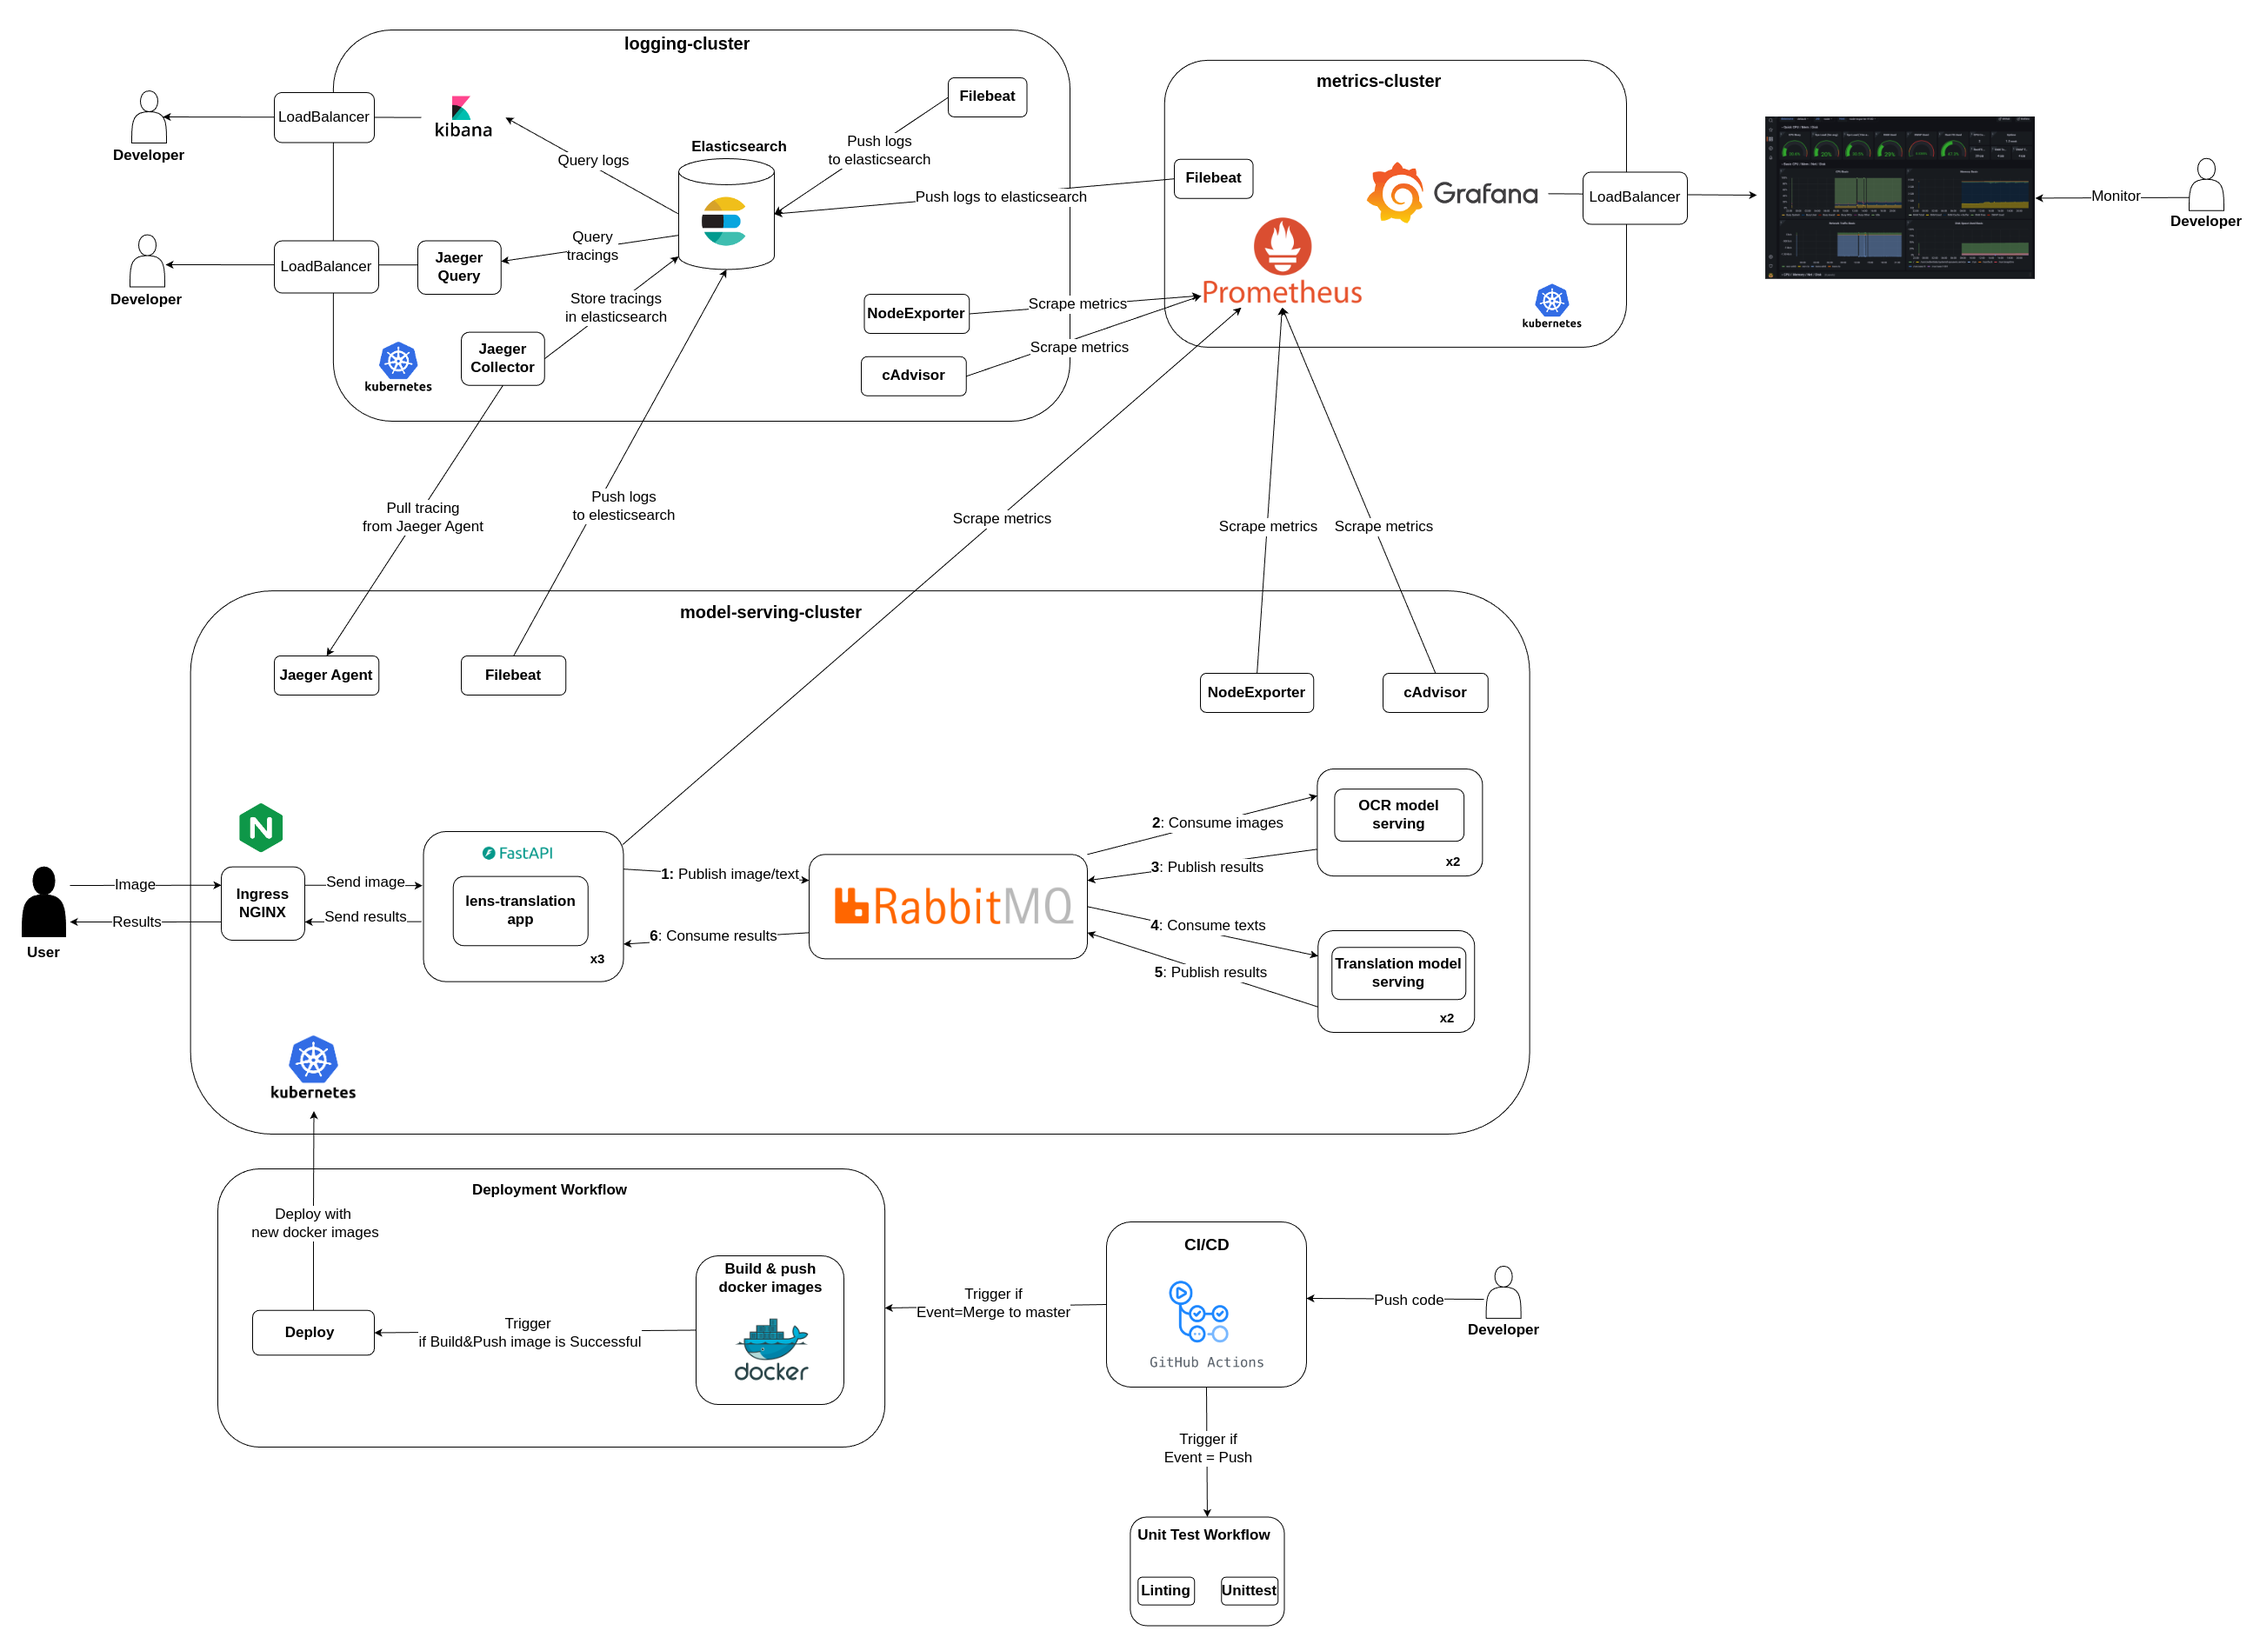
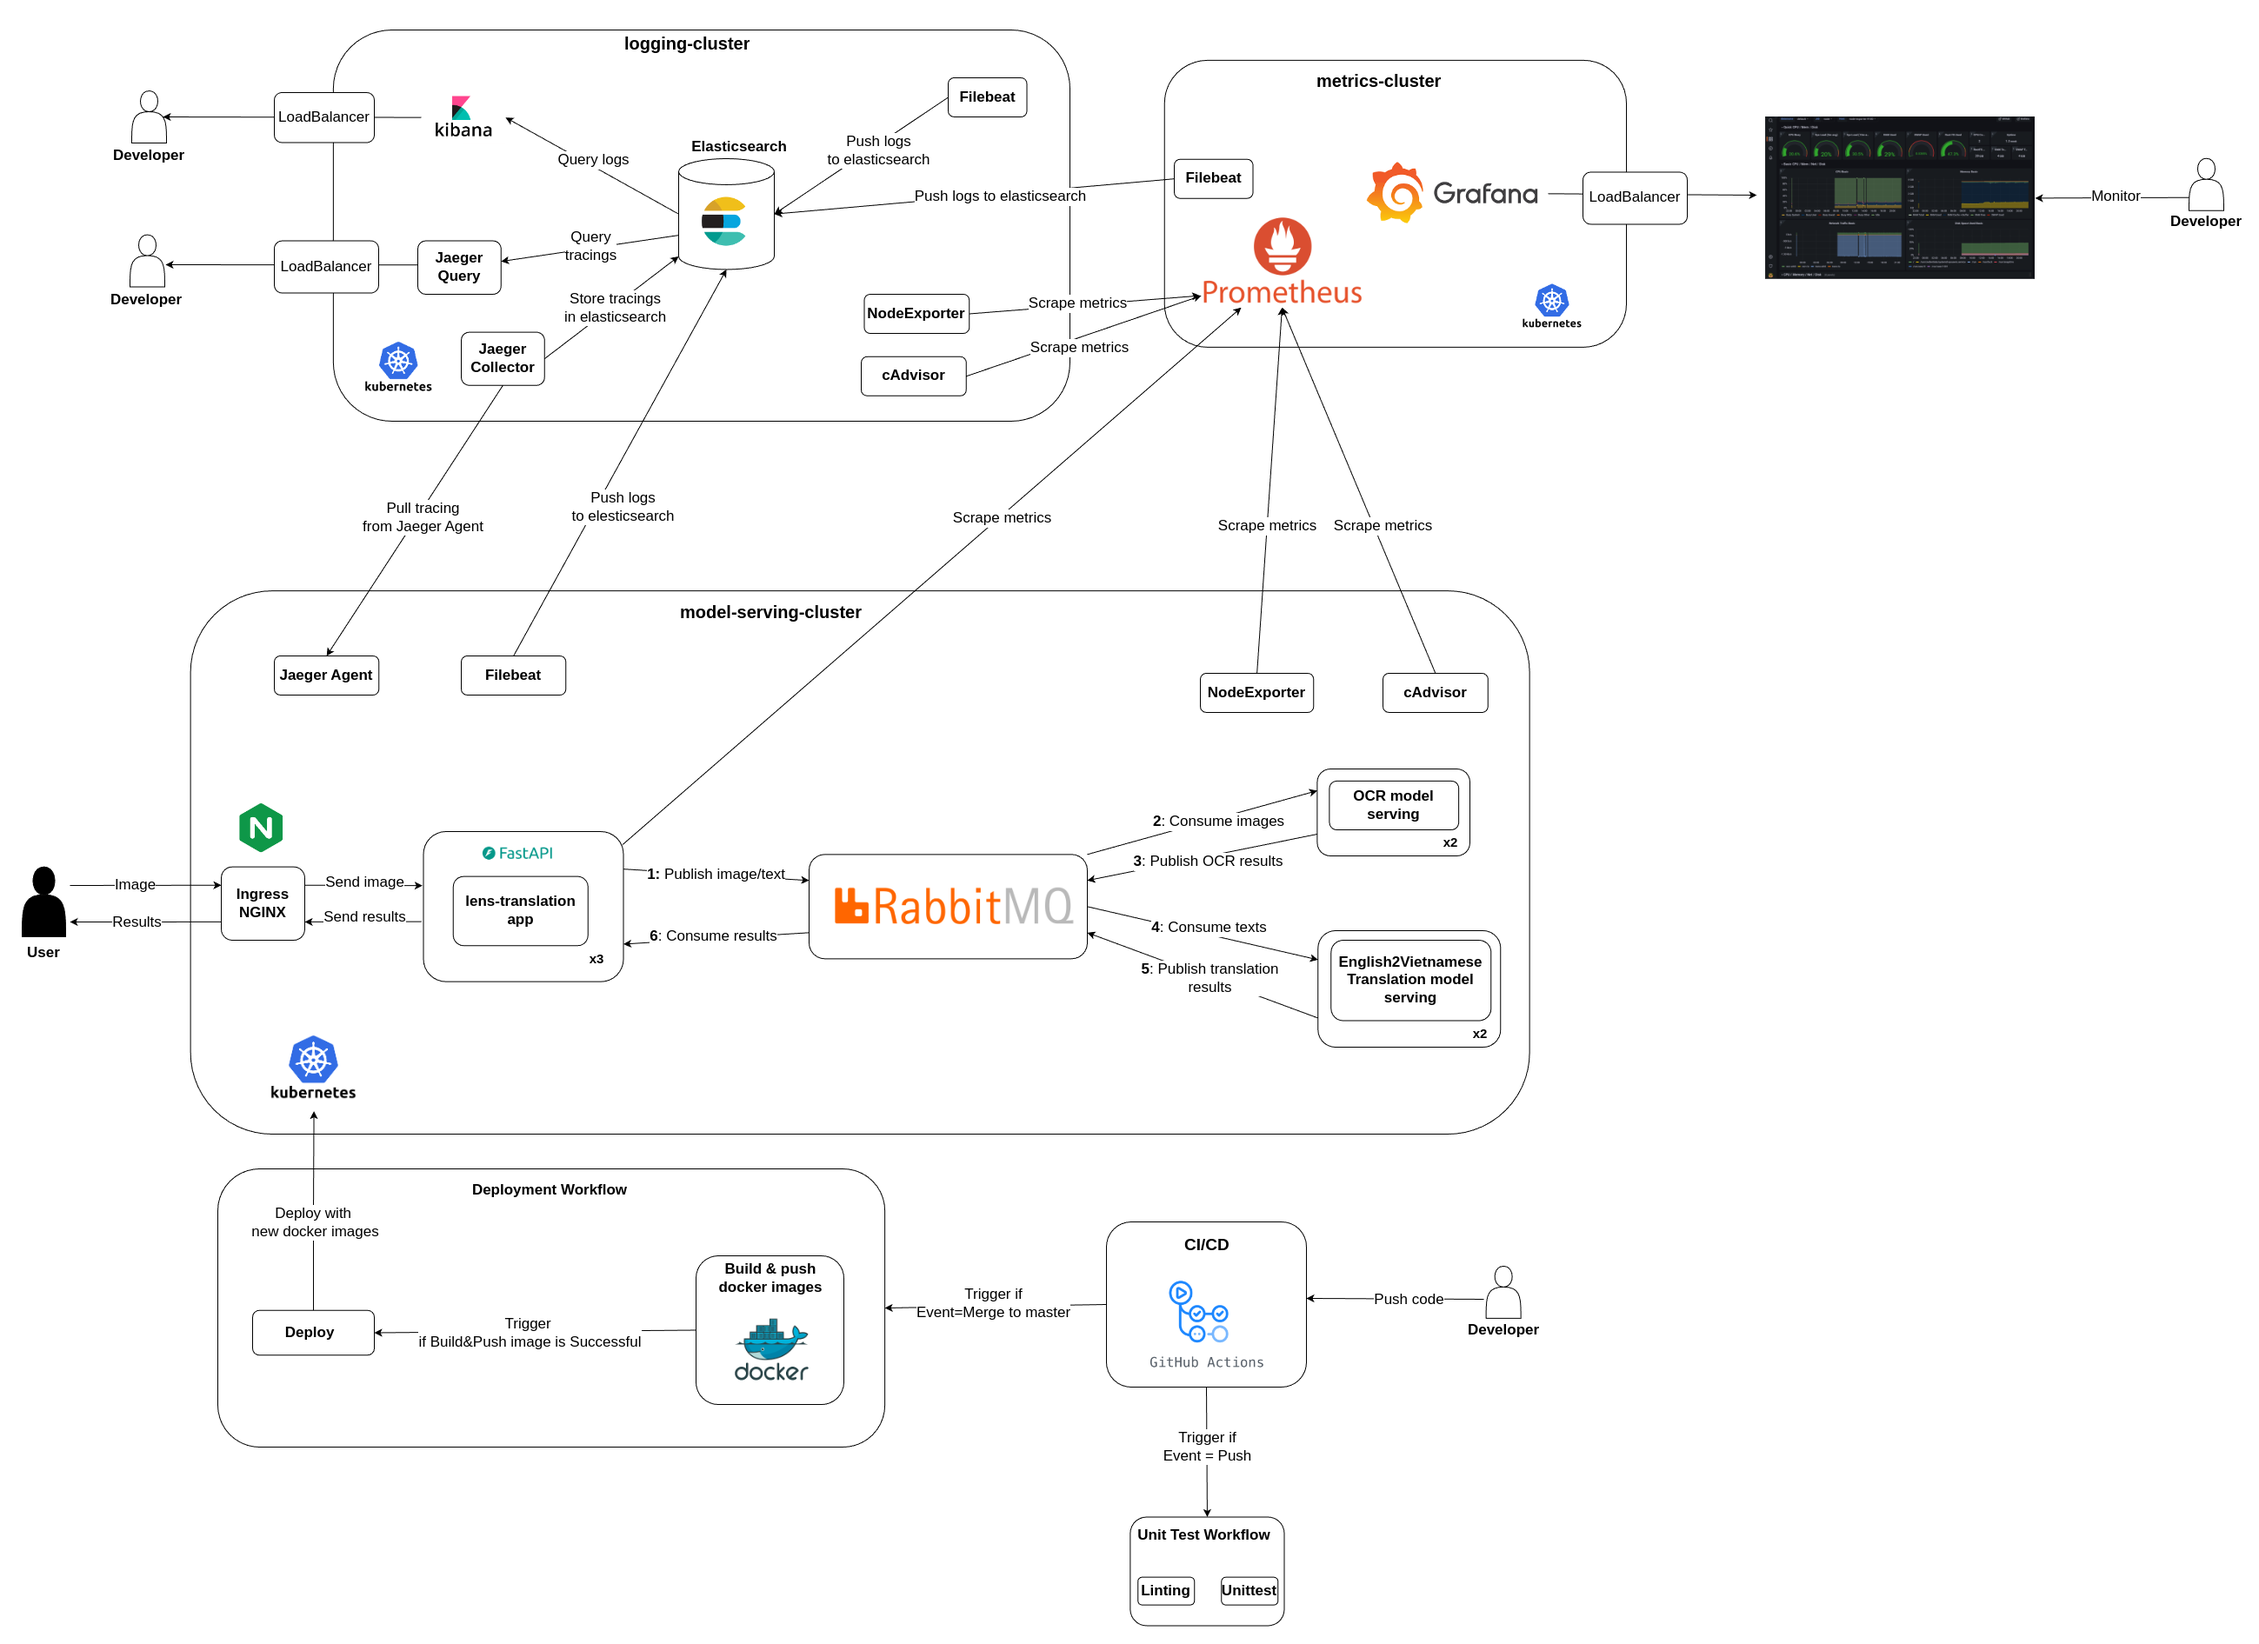
add better architecture chart

diff --git a/README.md b/README.md
@@ -13,7 +13,7 @@ The purpose of this project is to develop and deploy a machine learning applicat
 [4. Setup CI/CD](#4-setup-cicd)
 
 ## 1. System architecture with Kubernetes (K8s)
-![](images/archi.png)
+![](images/archi.png?)
 
 
 ### Note
